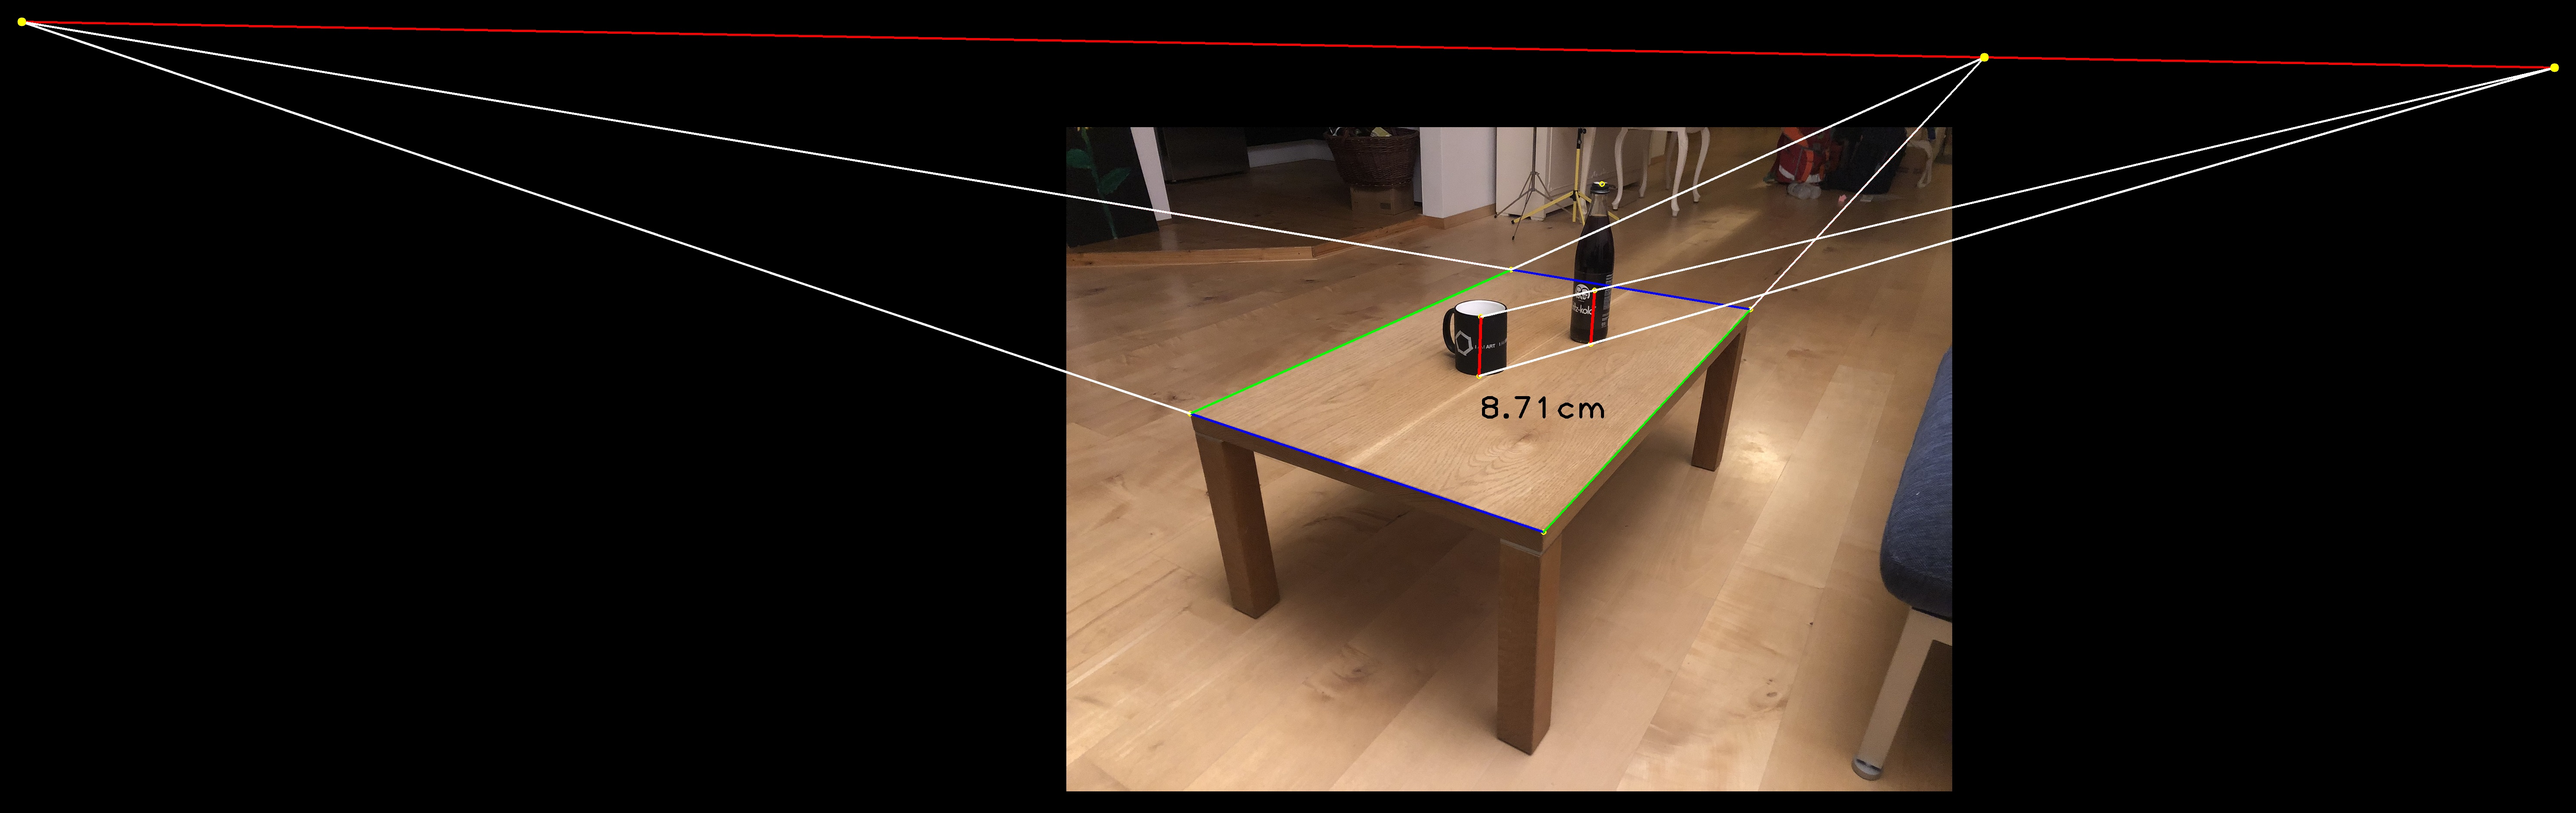
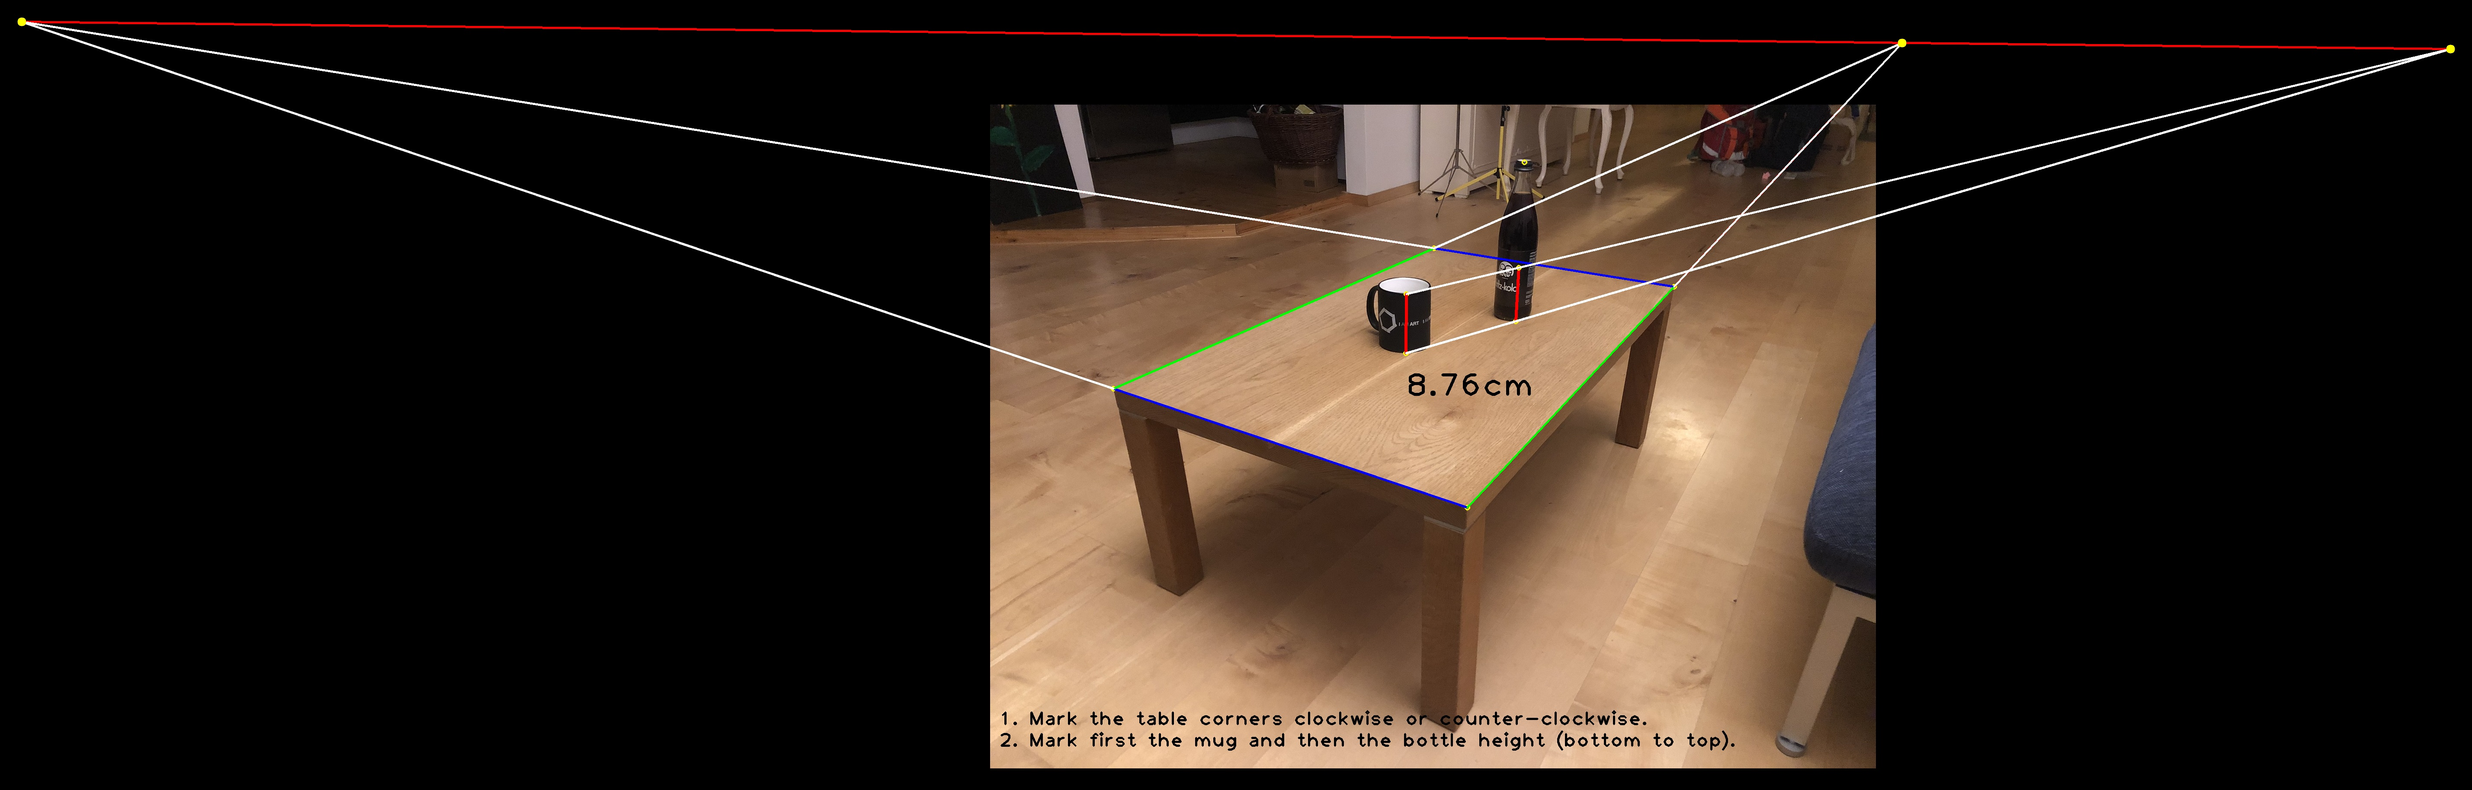
user instruction in image

diff --git a/Aufgabe2/HeightMeasurement.py b/Aufgabe2/HeightMeasurement.py
@@ -3,16 +3,23 @@ import cv2
 import numpy as np
 import operator
 
-# user instruction
-print('Mark the table corners clockwise or counter-clockwise.')
 window_name = 'window'
 window = cv2.namedWindow(window_name, cv2.WINDOW_FREERATIO)
 
 # load the image
 img = cv2.imread('Aufgabe2/table_bottle_01.jpg', cv2.IMREAD_COLOR)
+height, width, _ = img.shape
+
+# user instruction
+instruction1 = '1. Mark the table corners clockwise or counter-clockwise.'
+cv2.putText(img, instruction1, (20, height - 100), cv2.FONT_HERSHEY_PLAIN, 3, (0, 0, 0), 3, cv2.LINE_8)
+print(instruction1)
+instruction2 = '2. Mark first the mug and then the bottle height (bottom to top).'
+cv2.putText(img, instruction2, (20, height - 50), cv2.FONT_HERSHEY_PLAIN, 3, (0, 0, 0), 3, cv2.LINE_8)
+print(instruction2)
+
 orig_img = img.copy()
 cv2.imshow(window_name, img)
-height, width, _ = img.shape
 
 # returns position of intersection of 2 lines
 def getIntersection(line1, line2):
@@ -159,8 +166,6 @@ def click(event, x, y, flags, param):
             calculateVanishingPoints(0, 1, 2, 3, (255, 0, 0))
             # vanishing point 2
             calculateVanishingPoints(0, 3, 1, 2, (0, 255, 0))
-
-            print('Mark first the mug and then the bottle height (bottom to top).')
         
         # mug and bottle height are marked
         if len(clicked_points) == 8:
